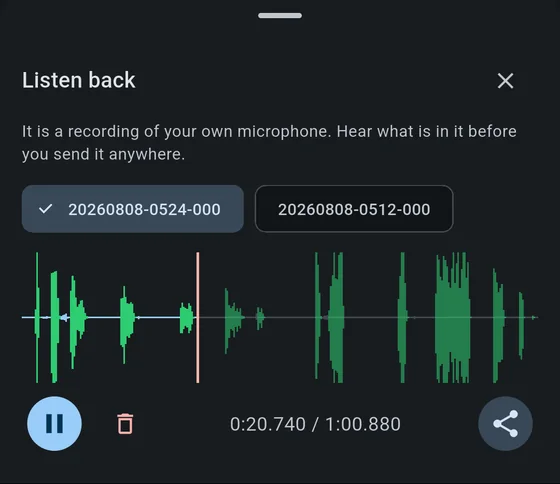
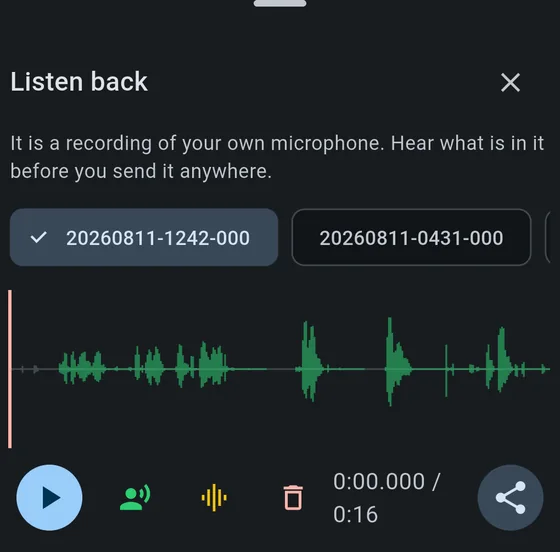
Photograph the three things the site had just started describing
The previous commit described the classifier's top three, the block budget and
the two playback toggles, and had a picture of none of them. All three are now
captured from the OPPO A3s over USB -- the device that actually reaches these
states, rather than a fast machine pretending to.

- **The block budget**, from a phone with nothing to spare: the enhancer alone
  is 7.18 ms of a 10 ms block, the whole block averages 9.14 against a 104.1 ms
  worst, and 274 ms is queued waiting. It illustrates the paragraph telling you
  to read the mean far better than a desktop's figures would.
- **The classifier's three rows**, live under Auto with the devices open --
  which is the only condition they exist in, so this needed a connected phone
  rather than a screenshot of an idle one.
- **The listen sheet, retaken.** The old shot predates both toggles and showed
  neither. This one has them on, so the green and amber the text names are
  visible, and it settles a second question on the way: the waveform draws its
  transmitted stretches green on Android, which is what #91 was opened about.

Also corrects the privacy policy, which said recordings "stay on your device"
full stop. On Windows the app writes them to the documents folder, and if
OneDrive is backing that folder up, Windows uploads them to the user's own
OneDrive like anything else put there. The app still uploads nothing and that
is now said more strongly, but "on your device" was not the whole truth on a PC
[…]

diff --git a/docs/diagnostics.md b/docs/diagnostics.md
@@ -77,6 +77,18 @@ model does not run. When it is grey the line underneath says which.
 
 ### What the classifier is actually hearing
 
+<div class="shots">
+  <figure>
+    <img src="{{ '/assets/img/shots/diag-classifier-phone.webp' | relative_url }}"
+         alt="Auto is using Standard, then three classifier rows with bars and
+              scores — silence 0.50, speech 0.04, inside a small room 0.02 —
+              above the row of stage dots."
+         width="560" height="274" loading="lazy" decoding="async">
+    <figcaption>The evidence behind the profile, in a quiet room: silence well
+    ahead, and nothing near the bar.</figcaption>
+  </figure>
+</div>
+
 Under **Automatic**, above the dots, three rows appear: the classifier's three
 most likely labels, each with a bar and a score between 0 and 1. A label has to
 clear **0.30** to count as heard.
@@ -167,6 +179,20 @@ block has to beat to be sent. On a bike at speed the floor climbs and the thresh
 which is what the noise profiles are for.
 
 ### Where a block's 10 ms goes
+
+<div class="shots">
+  <figure>
+    <img src="{{ '/assets/img/shots/diag-block-phone.webp' | relative_url }}"
+         alt="The block budget on a slow phone: input and taps 0.01 ms,
+              enhancer 7.18 ms in amber, suppression 1.58 ms, feedback, de-hiss
+              and not-in-any-stage at zero, to the server 0.08 ms, encode
+              0.27 ms, whole block 9.14 ms mean against 104.1 worst, and
+              274 ms waiting to be processed."
+         width="560" height="391" loading="lazy" decoding="async">
+    <figcaption>A device with nothing to spare: the enhancer alone is
+    7.18 ms of a 10 ms block.</figcaption>
+  </figure>
+</div>
 
 The third column is the deadline itself, broken down by stage: **input and
 taps**, **enhancer**, **suppression**, **feedback**, **de-hiss**, **to the
@@ -271,11 +297,11 @@ recording]({{ '/sending-a-recording.html' | relative_url }}).
 <div class="shots">
   <figure>
     <img src="{{ '/assets/img/shots/listen-phone.webp' | relative_url }}"
-         alt="The listen-back sheet playing a recording: one chip per recording,
-              a waveform whose green stretches are the parts that went to the
-              server, a red playhead part way along, and the elapsed and total
-              time in minutes, seconds and milliseconds."
-         width="560" height="484" loading="lazy" decoding="async">
+         alt="The listen-back sheet: one chip per recording, a waveform whose
+              green stretches are the parts that went to the server, a red
+              playhead at the start, the two playback toggles filled in green
+              and amber, and the elapsed and total time."
+         width="560" height="552" loading="lazy" decoding="async">
     <figcaption>Green is what went out. Drag, tap or pinch the
     waveform.</figcaption>
   </figure>

diff --git a/docs/ru/privacy.md b/docs/ru/privacy.md
@@ -118,10 +118,18 @@ description: Что MumbleWay делает с вашим голосом, а че
 этого звука. Сделано это потому, что жалобу вроде «меня обрезало на полуслове»
 по одному описанию не разобрать.
 
-- Записи остаются на вашем устройстве.
-- Автоматически ничего никуда не выгружается. Они уходят, только если вы сами
-  решите ими поделиться — через стандартное меню «Поделиться» вашего
+- **Само приложение не выгружает ничего и никогда.** Записи уходят, только если
+  вы сами решите ими поделиться — через стандартное меню «Поделиться» вашего
   устройства и туда, куда выберете вы.
+- **Но папку, в которой они лежат, может синхронизировать ваше собственное
+  устройство.** Приложение пишет их в обычную папку документов — на Windows это
+  `Документы\mumbleway-recordings`, — и если у вас включено резервное копирование
+  папки «Документы» в OneDrive, Windows выгрузит их в *ваш* аккаунт OneDrive,
+  как и всё остальное, что вы туда кладёте. Это договорённость вашего устройства
+  с вашим облаком, к приложению отношения не имеющая, — но на компьютере с такой
+  настройкой «остаются на вашем устройстве» будет неполной правдой, и об этом
+  честнее сказать прямо. На Android, iOS и macOS файлы лежат внутри собственного
+  хранилища приложения, которого настройки синхронизации папок не касаются.
 - Удалить их можно из той же панели или через файловый менеджер устройства.
 - Отправляя запись разработчику, вы отправляете запись собственного
   микрофона. Послушайте её сначала.

diff --git a/docs/privacy.md b/docs/privacy.md
@@ -100,9 +100,17 @@ storage, along with what the noise suppression decided about each moment of it.
 It exists because faults like "it cut me off mid-sentence" cannot be diagnosed
 from a description.
 
-- The recordings stay on your device.
-- Nothing is uploaded automatically. They leave only if you choose to share
-  them, using your device's normal share sheet, to a destination you pick.
+- **The app uploads nothing, ever.** Recordings leave only if you choose to
+  share them, using your device's normal share sheet, to a destination you
+  pick.
+- **But your own device may sync the folder they are in.** The app writes them
+  to the ordinary documents folder — on Windows, `Documents\mumbleway-recordings`
+  — and if you have OneDrive set to back up your Documents folder, Windows will
+  upload them to *your* OneDrive account like anything else you put there. That
+  is your device's arrangement with your own cloud account and nothing to do
+  with this app, but "on your device" is not the whole truth on a PC set up that
+  way, so it is worth saying plainly. On Android, iOS and macOS the files live
+  inside the app's own storage, which no desktop folder-sync setting covers.
 - You can delete them from the same panel, or from your device's file manager.
 - If you send a recording to the developer, you are sending a recording of your
   own microphone. Please listen to it first.

diff --git a/docs/sending-a-recording.md b/docs/sending-a-recording.md
@@ -74,11 +74,11 @@ button was never pressed.
   </figure>
   <figure>
     <img src="{{ '/assets/img/shots/listen-phone.webp' | relative_url }}"
-         alt="The listen-back sheet playing a recording: one chip per recording,
-              a waveform whose green stretches are the parts that went to the
-              server, a red playhead part way along, and the elapsed and total
-              time in minutes, seconds and milliseconds."
-         width="560" height="484" loading="lazy" decoding="async">
+         alt="The listen-back sheet: one chip per recording, a waveform whose
+              green stretches are the parts that went to the server, a red
+              playhead at the start, the two playback toggles filled in green
+              and amber, and the elapsed and total time."
+         width="560" height="552" loading="lazy" decoding="async">
     <figcaption>Listening back before sending. Green is what went out; drag,
     tap or pinch the waveform.</figcaption>
   </figure>
